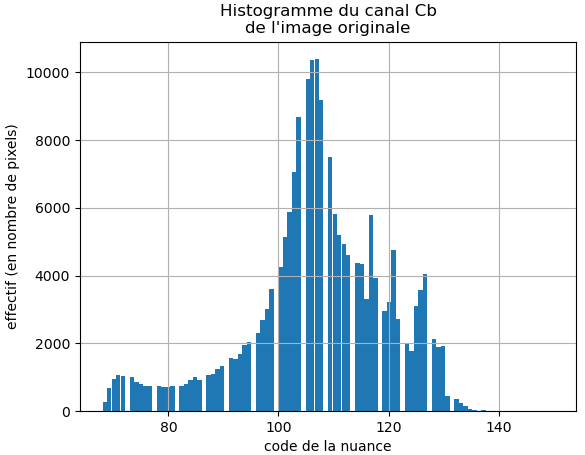
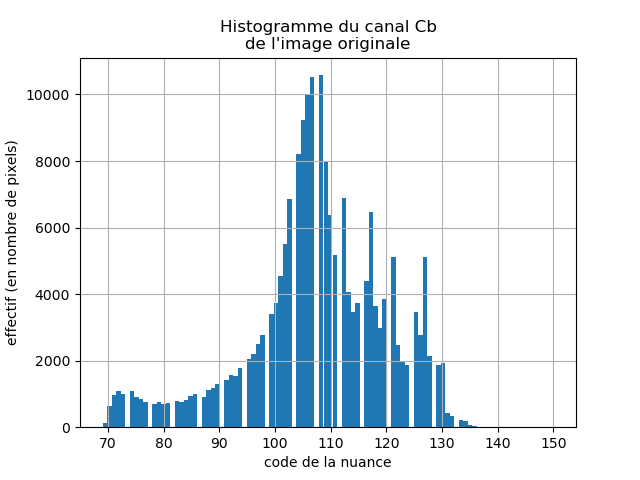
correction matrice ycbcr

diff --git a/TP1/images.py b/TP1/images.py
@@ -123,12 +123,19 @@ class RGBImg:
 
 
 M = np.array([
-    [0.299, 0.587, 0.114],
-    [-0.172, -0.339, 0.511],
-    [0.511, -0.428, -0.083]
+    [ 0.299,   0.587,   0.114 ],
+    [-0.1687, -0.3313,  0.5   ],
+    [ 0.5,    -0.4187, -0.0813]
 ])
 Mt = np.transpose(M)
-invMt = np.transpose(np.linalg.inv(M))
+
+
+invM = np.array([
+    [1.0,  0.0    ,  1.402  ],
+    [1.0, -0.34414, -0.71414],
+    [1.0,  1.772,    0.0    ]    
+])
+invMt = np.transpose(invM)
 
 P = [0, 128, 128]
 
